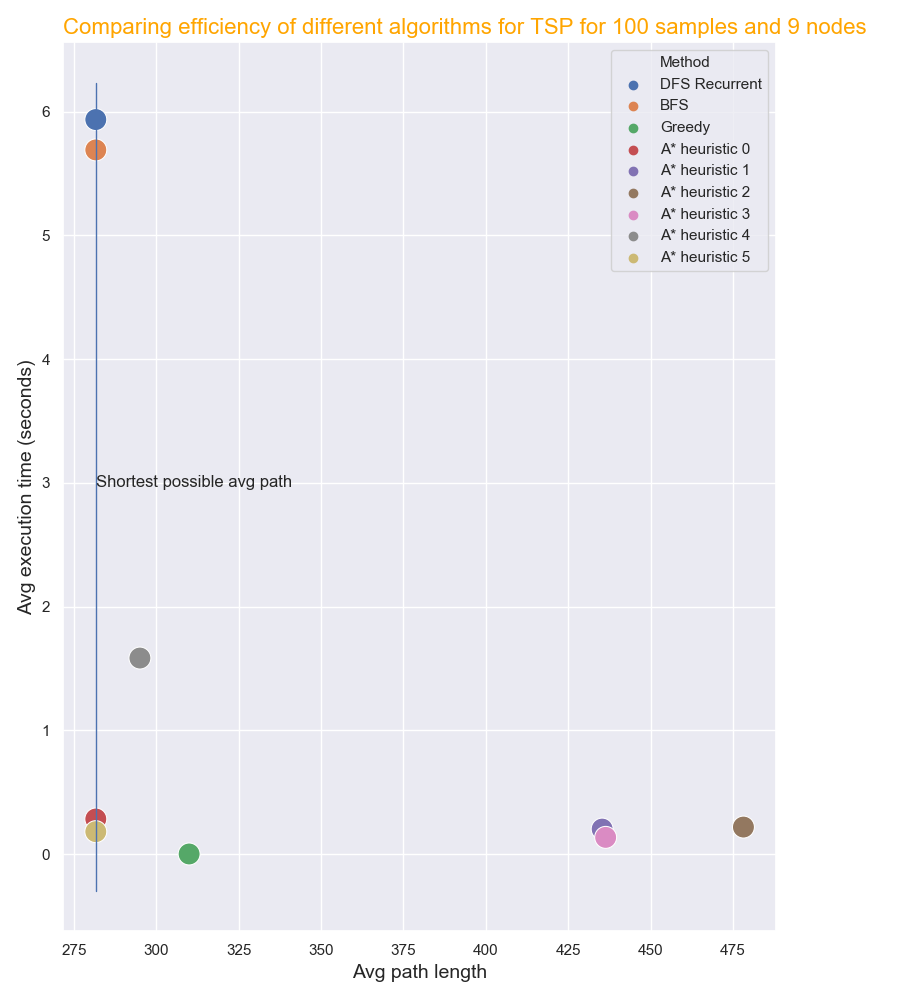
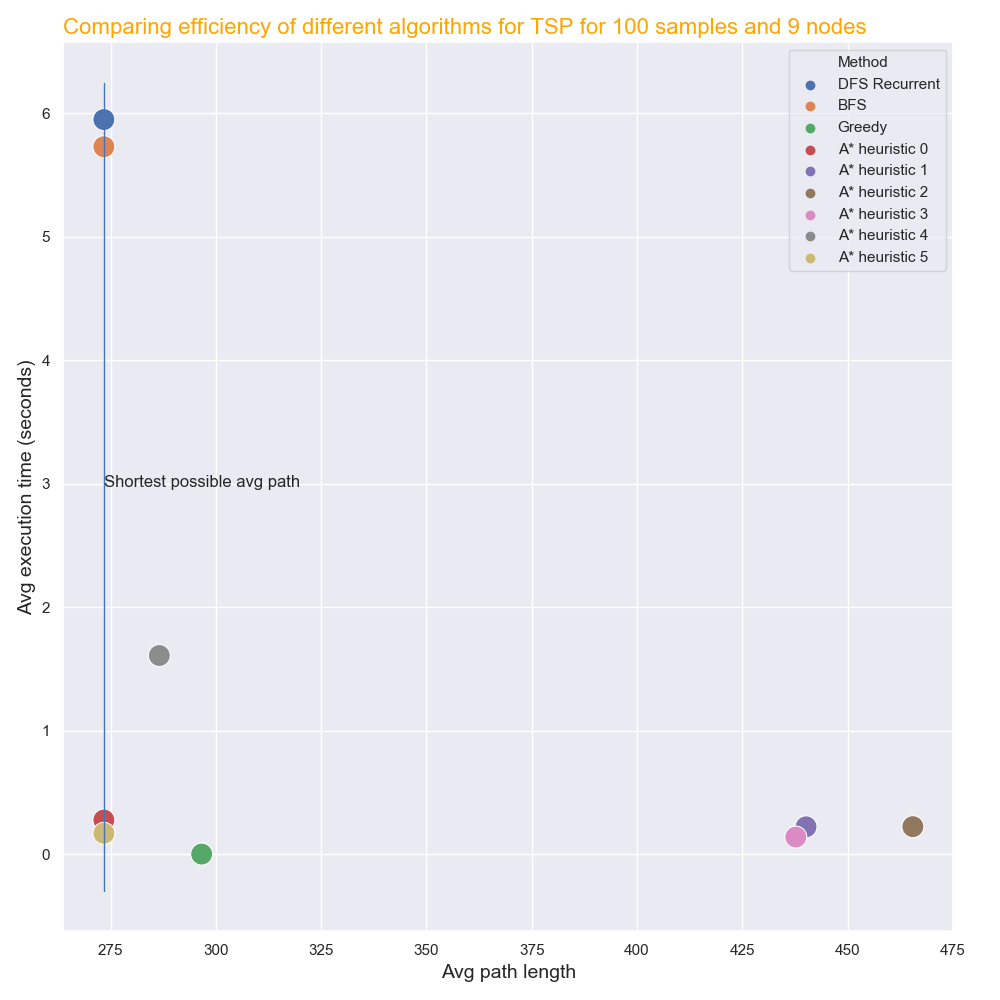
Even more small TSP improvements

diff --git a/Python/Travelling Salesman Problem/travelling_salesman_problem.py b/Python/Travelling Salesman Problem/travelling_salesman_problem.py
@@ -11,7 +11,7 @@ import time
 
 def test_random():
     """
-        Test all approaches for random path.
+        Test all approaches on random graph.
     """
     num_of_nodes = 7
     graph = Graph(num_of_nodes)
@@ -131,12 +131,12 @@ def approaches_analysis():
 
     num_of_samples = 100
 
-    num_of_nodes = 9
+    num_of_nodes = 8
     data = try_all_approaches(num_of_samples=num_of_samples, num_of_nodes=num_of_nodes)
     plot_path_lengths_and_execution_times(data, num_of_samples=num_of_samples, num_of_nodes=num_of_nodes)
 
     results = []
-    num_of_nodes_to_test = 9
+    num_of_nodes_to_test = 8
     start_counting_from_node = 3
     for i in range(start_counting_from_node, num_of_nodes_to_test + 1):
         print(i)
@@ -174,7 +174,7 @@ def plot_number_of_nodes_and_execution_times(results, num_of_samples):
 
     # giving labels to x-axis and y-axis
     plt.xlabel("Number of nodes", fontsize=14)
-    plt.ylabel("Execution time", fontsize=14)
+    plt.ylabel("Execution time (seconds)", fontsize=14)
 
     plt.show()
 
@@ -185,7 +185,7 @@ def plot_path_lengths_and_execution_times(data, num_of_samples, num_of_nodes):
 
     # plotting strip plot with seaborn
     sns.set(style="darkgrid")
-    plt.figure(figsize=(9, 10))
+    plt.figure(figsize=(10, 10))
     sns.scatterplot(x="Path_length", y="Execution_time", hue="Method", data=df, s=250)
 
     # giving labels to x-axis and y-axis
